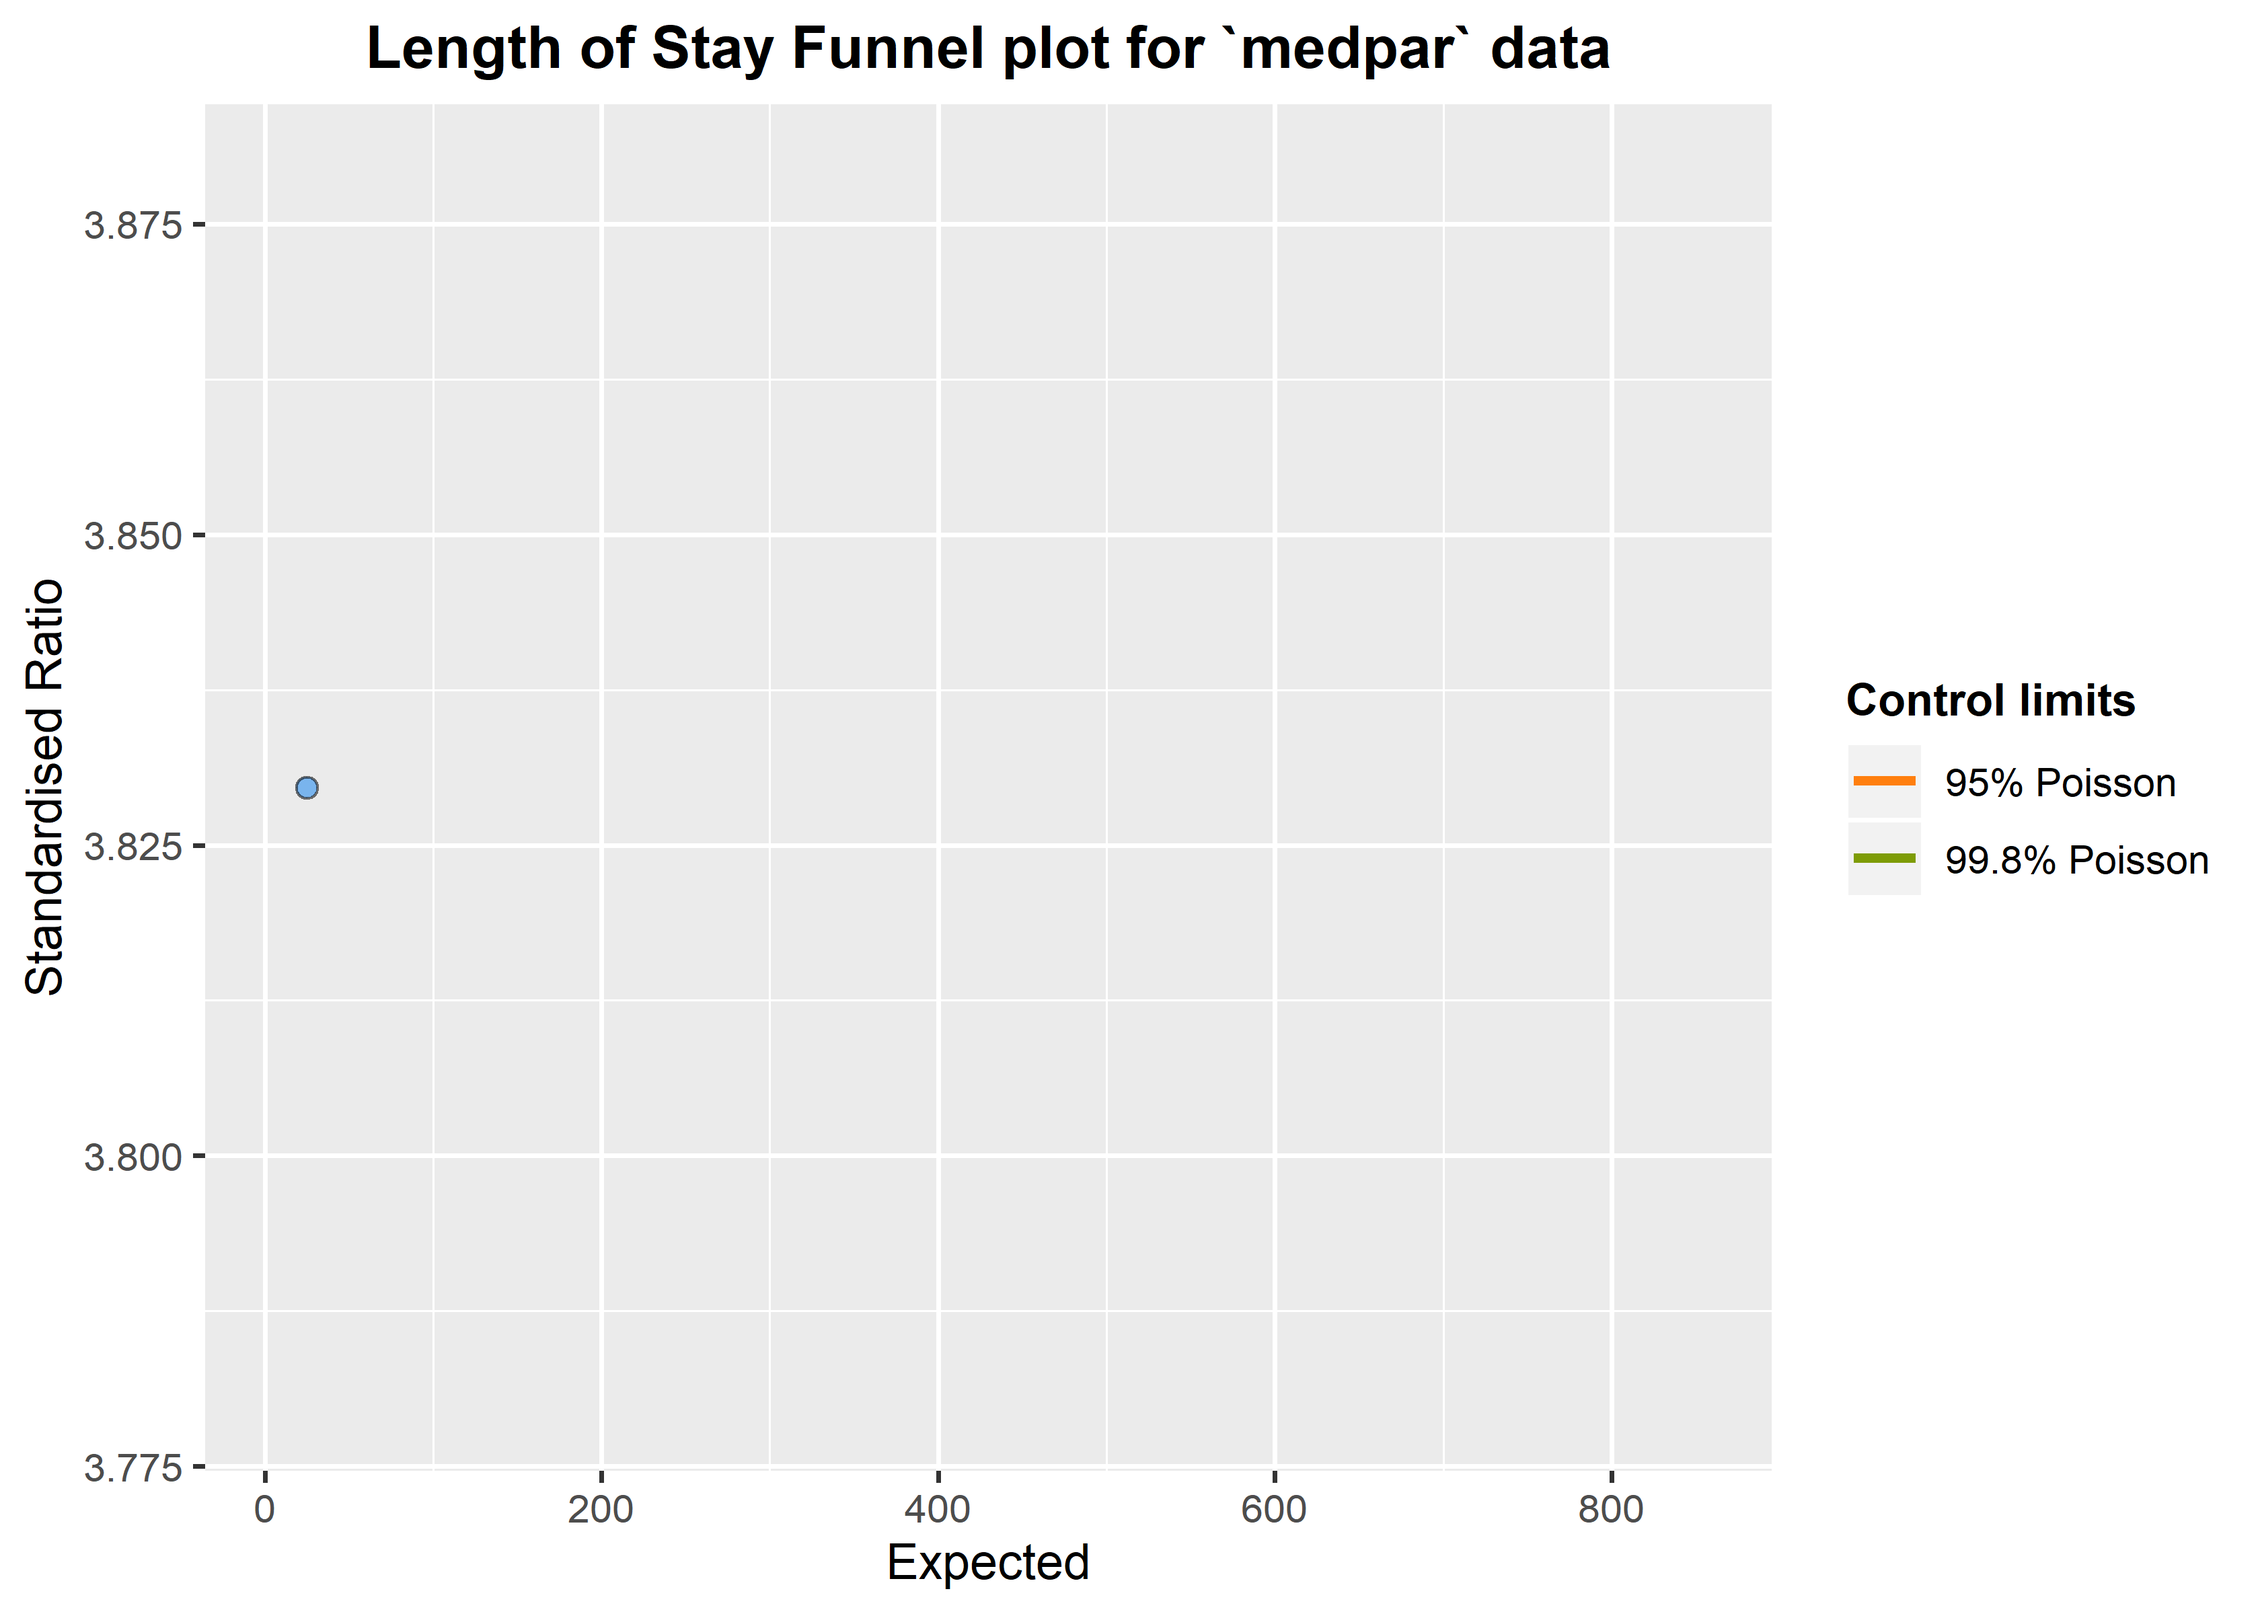
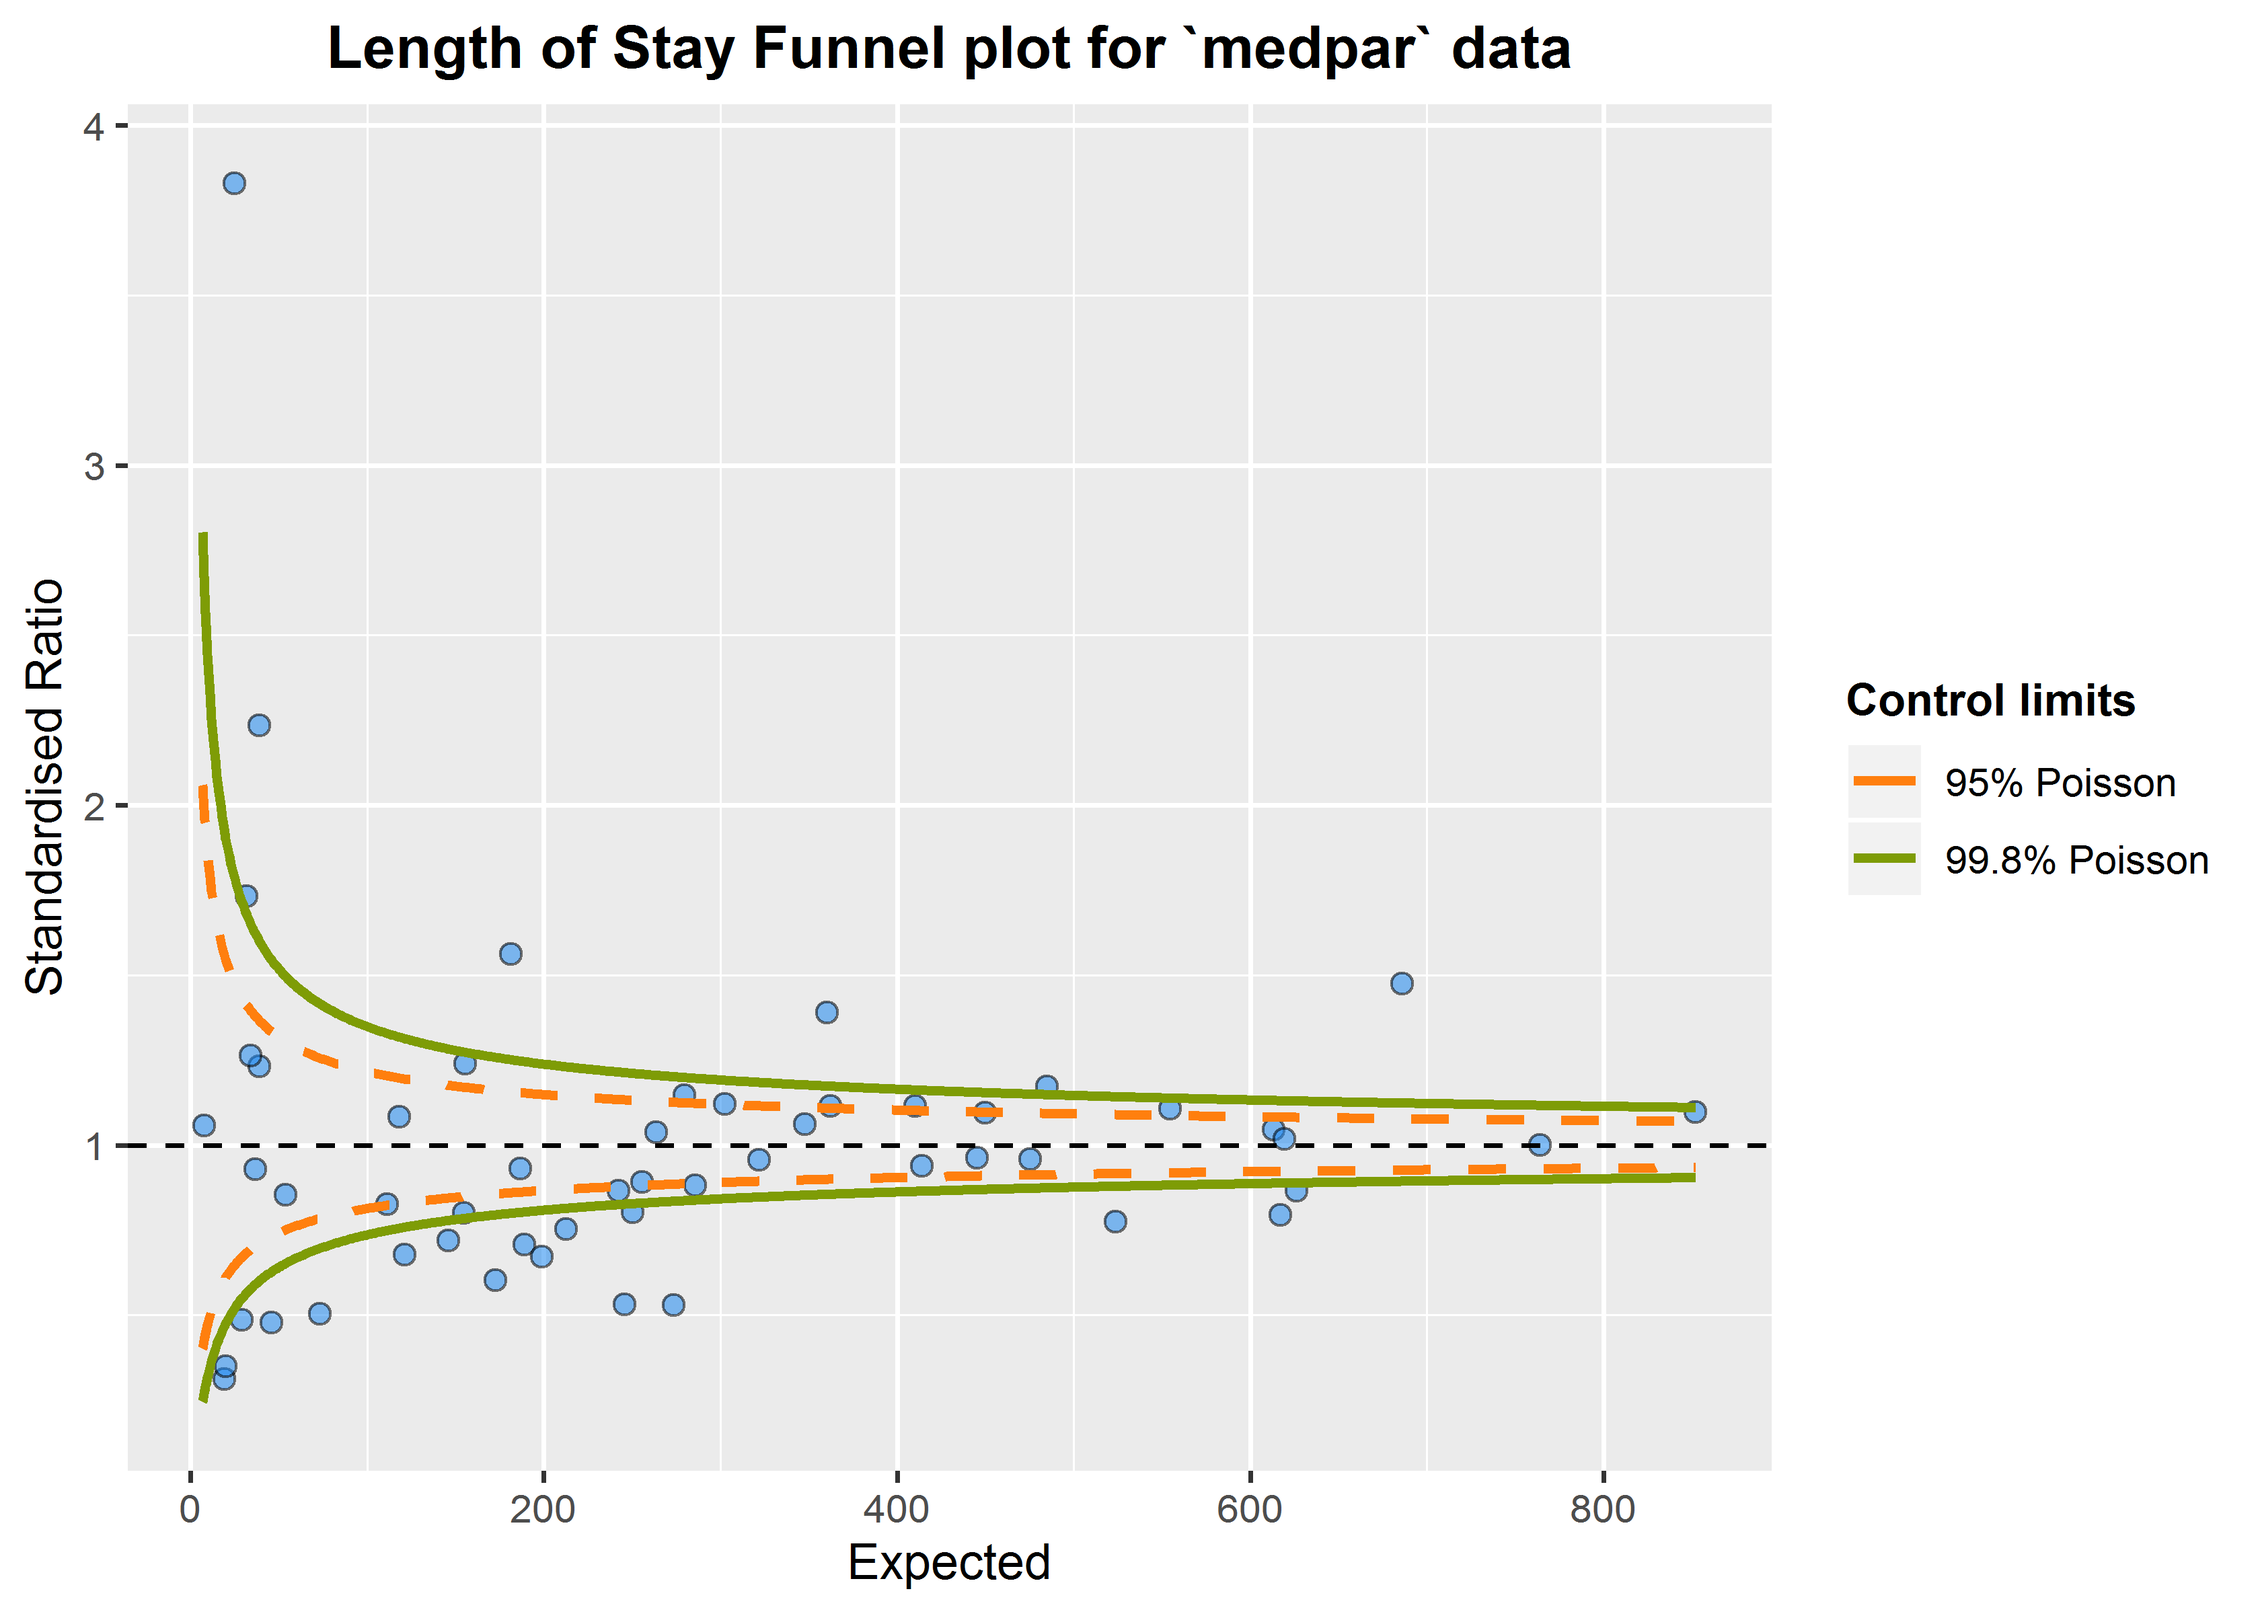
Checked on UHB system and rebuilt

diff --git a/README.md b/README.md
@@ -122,13 +122,8 @@ the plotted control limit range, and the ggplot object, hence
 funnel_plot(numerator=medpar$los, denominator=medpar$prds, group = medpar$provnum, 
             title = 'Length of Stay Funnel plot for `medpar` data', Poisson_limits = TRUE,
             OD_adjust = FALSE,label_outliers = TRUE, return_elements = "plot")
-## Warning in min(subset(mod_plot_agg, .data$numerator > 4)$LCL99): no non-
-## missing arguments to min; returning Inf
-## Warning in max(subset(mod_plot_agg, .data$numerator > 4)$UCL99): no non-
-## missing arguments to max; returning -Inf
 ## $plot
-## Warning: Removed 53 rows containing missing values (geom_point).
-## Warning: Removed 54 rows containing missing values (geom_hline).
+## Warning: Removed 1 rows containing missing values (geom_point).
 ```
 
 <img src="README_files/figure-gfm/funnel1-1.png" width="672" style="display: block; margin: auto;" />
@@ -157,13 +152,7 @@ for this by inflating the limits:
 funnel_plot(numerator=medpar$los, denominator=medpar$prds, group = medpar$provnum, 
             title = 'Length of Stay Funnel plot for `medpar` data', Poisson_limits = FALSE,
             OD_adjust = TRUE, method = "SHMI",label_outliers = TRUE, return_elements = "plot")
-## Warning in min(subset(mod_plot_agg, .data$numerator > 4)$OD99LCL): no non-
-## missing arguments to min; returning Inf
-## Warning in max(subset(mod_plot_agg, .data$numerator > 4)$OD99UCL): no non-
-## missing arguments to max; returning -Inf
 ## $plot
-## Warning: Removed 53 rows containing missing values (geom_point).
-## Warning: Removed 54 rows containing missing values (geom_hline).
 ```
 
 <img src="README_files/figure-gfm/funnel2-1.png" width="672" style="display: block; margin: auto;" />
